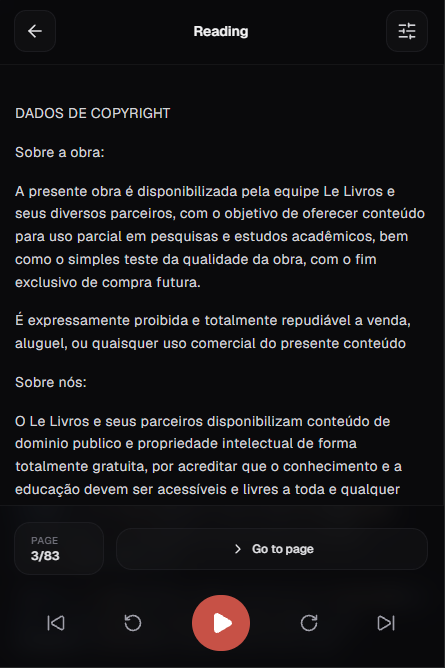
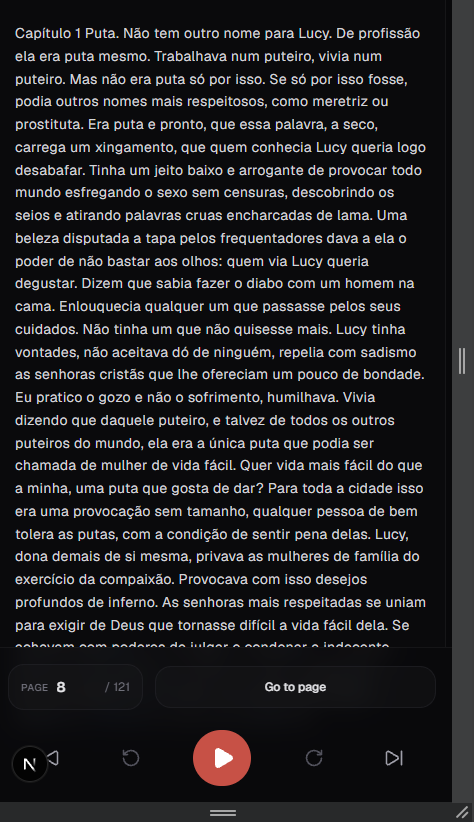
doc: ajust README

diff --git a/src/app/reading/page.tsx b/src/app/reading/page.tsx
@@ -290,9 +290,6 @@ export default function ReadingPage() {
         }
     }, [pageCurent]);
 
-
-    console.log(textSize)
-
     return (
         <main className="flex min-h-screen w-full max-w-2xl flex-1 flex-col justify-between mx-auto px-4 text-text-main">
 
